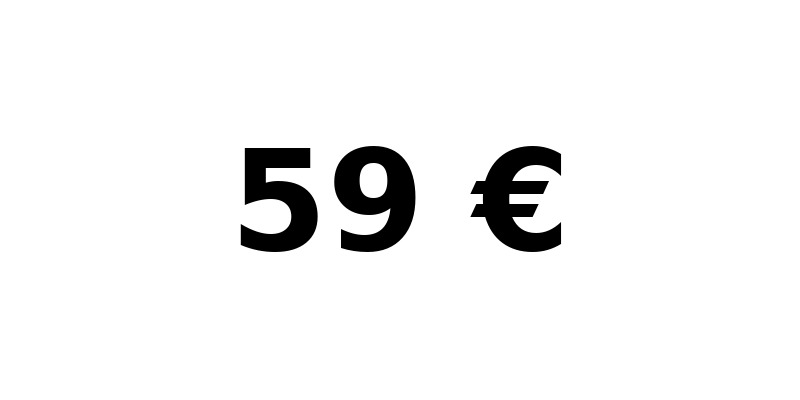
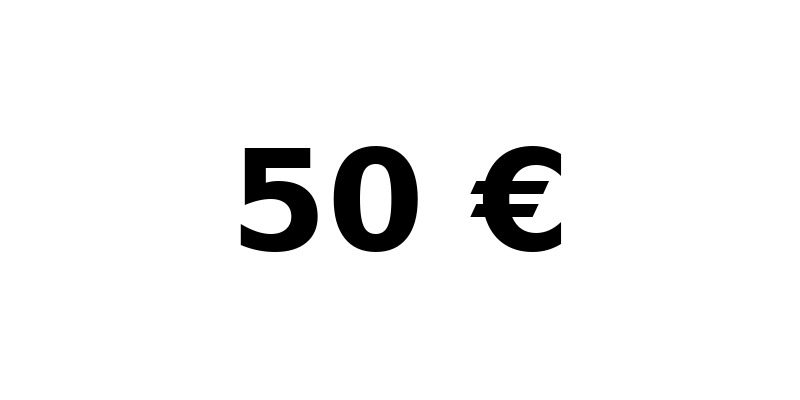
Prép 14/11 : prix leboncoin conservés (Bershka 9, Kenzo Tigre 50) — décision Thibaud
Claude-Session: https://claude.ai/code/session_01DLn3Kwvac3AwEdPsYyPiKY

Changed region(s): [[0.4062, 0.39, 0.5312, 0.63], [0.4375, 0.36, 0.5, 0.39]]

diff --git a/preparation-quotidienne/2026-11-14/RELAIS_MANUEL_THIBAUD.md b/preparation-quotidienne/2026-11-14/RELAIS_MANUEL_THIBAUD.md
@@ -6,7 +6,7 @@ Mannequin selon le genre et la taille, décor adapté au style (consignes ALEX-0
 | # | ID Vinted | Article | Prix | Originaux | IA manquantes | Mannequin / décor conseillé |
 |---|---|---|---|---|---|---|
 | 1 | 9961492172 | Chemise rose fuchsia de chez Zara, taille S | 8 € | 1 ([GitHub](https://github.com/thibaudmerlin-arch/photos-annonces/tree/main/photos/9961492172)) | 2 |  |
-| 2 | 10673761201 | Sweat crop top Bershka Atlanta – Taille S | 11 € | 4 ([GitHub](https://github.com/thibaudmerlin-arch/photos-annonces/tree/main/photos/10673761201)) | 2 |  |
+| 2 | 10673761201 | Sweat crop top Bershka Atlanta – Taille S | 9 € | 4 ([GitHub](https://github.com/thibaudmerlin-arch/photos-annonces/tree/main/photos/10673761201)) | 2 |  |
 | 3 | 9951887742 | T-shirt dentelle marron Pimkie – Taille S | 5 € | 1 ([GitHub](https://github.com/thibaudmerlin-arch/photos-annonces/tree/main/photos/9951887742)) | 2 |  |
 | 4 | 9953112892 | Jean troué style décontracté – Taille 36 | 6 € | 2 ([GitHub](https://github.com/thibaudmerlin-arch/photos-annonces/tree/main/photos/9953112892)) | 2 |  |
 | 5 | 9962900900 | Gilet sans manches en crochet | 10 € | 1 ([GitHub](https://github.com/thibaudmerlin-arch/photos-annonces/tree/main/photos/9962900900)) | 2 |  |
@@ -16,7 +16,7 @@ Mannequin selon le genre et la taille, décor adapté au style (consignes ALEX-0
 | 9 | 10411027898 | Haut vert émeraude à manches plissées – Taille S | 11 € | 1 ([GitHub](https://github.com/thibaudmerlin-arch/photos-annonces/tree/main/photos/10411027898)) | 2 |  |
 | 10 | 10411128190 | Blouse bleu marine à manches en dentelle – Taille S | 11 € | 2 ([GitHub](https://github.com/thibaudmerlin-arch/photos-annonces/tree/main/photos/10411128190)) | 2 |  |
 | 11 | 10672866739 | Manteau Columbia vintage – Taille L | 50 € | 4 ([GitHub](https://github.com/thibaudmerlin-arch/photos-annonces/tree/main/photos/10672866739)) | 2 |  |
-| 12 | 10191151800 | Sweat Kenzo Tigre – Femme – Taille XS | 59 € | 3 ([GitHub](https://github.com/thibaudmerlin-arch/photos-annonces/tree/main/photos/10191151800)) | 2 |  |
+| 12 | 10191151800 | Sweat Kenzo Tigre – Femme – Taille XS | 50 € | 3 ([GitHub](https://github.com/thibaudmerlin-arch/photos-annonces/tree/main/photos/10191151800)) | 2 |  |
 | 13 | 9953803420 | Robe kaki Mango – Taille M | 10 € | 2 ([GitHub](https://github.com/thibaudmerlin-arch/photos-annonces/tree/main/photos/9953803420)) | 2 |  |
 | 14 | 10171342779 | Veste en jean moumoute Creeks – Taille 38 | 24 € | 2 ([GitHub](https://github.com/thibaudmerlin-arch/photos-annonces/tree/main/photos/10171342779)) | 2 |  |
 | 15 | 10189074189 | Robe noire plissée Mango décolleté V – Taille S | 14 € | 4 ([GitHub](https://github.com/thibaudmerlin-arch/photos-annonces/tree/main/photos/10189074189)) | 2 |  |
